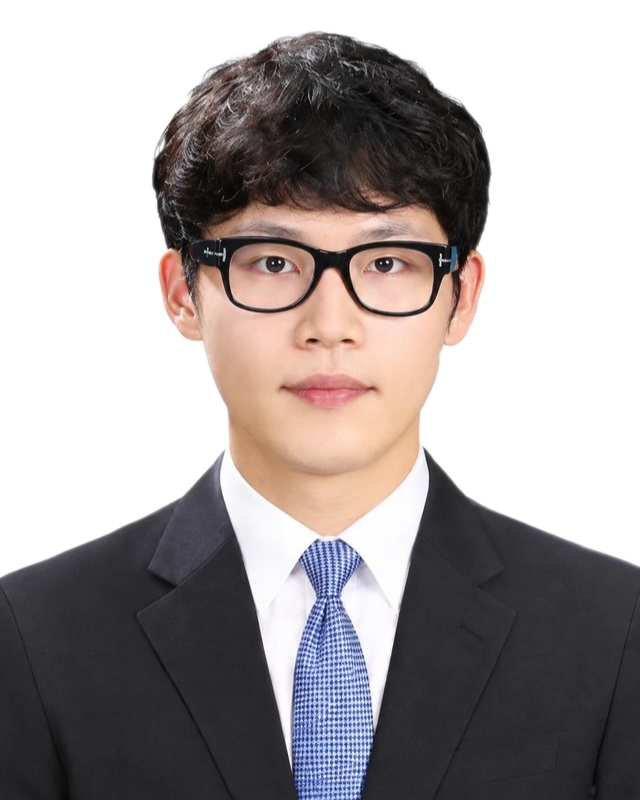
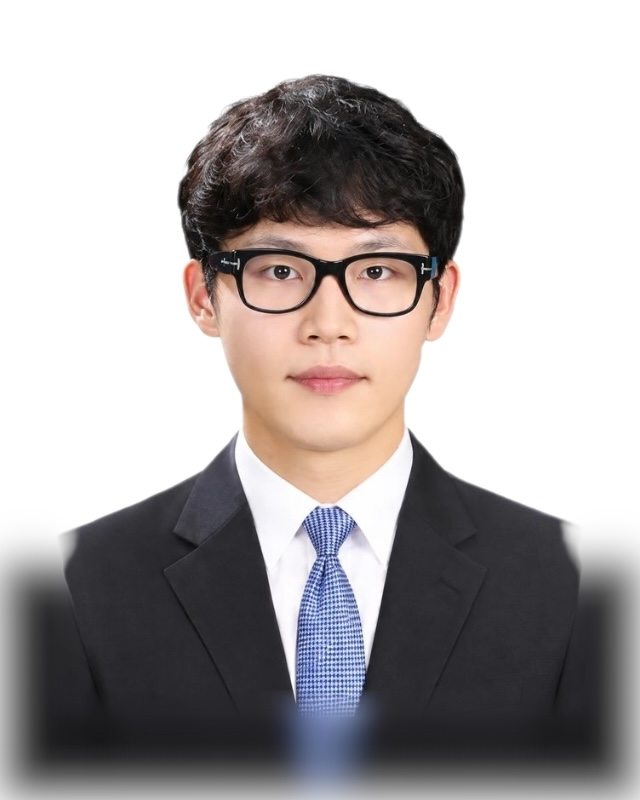
최현재 얼굴 작게, 고연승 사진·약력(블로그), 서현우 약력 수정

Changed region(s): [[0.0, 0.0312, 1.0, 1.0], [0.8438, 0.8438, 0.875, 0.875], [0.125, 0.8438, 0.1562, 0.875]]

diff --git a/index.html b/index.html
@@ -594,13 +594,13 @@ const T=[
  {n:'조일환',s:'수학',c:['서울대학교 수학과 학사 · 석사 수료','UCLA 수학과 석사 · 응용수학 박사 과정','가톨릭대 · 성균관대 의약 논술 강의']},
  {n:'문지현',s:'영어',c:['현) 메가스터디 영어 인강 대표강사','러셀 공채 1위 영어강사','전) 휘문고 · 단대부고 · 세화고 전임','매년 수능 만점자 배출','이투스북 모의고사 출제 · 검토']},
  {n:'박정은',s:'영어',c:['서울대학교 영어영문학과','서초 메가스터디 강의평가 1위','메가스터디 6월 · 9월 수능 모의평가 대표 평가위원','대성 모의고사 평가위원 (Dfine · Darchaive 모의고사 외)']},
- {n:'고연승',s:'영어',c:['연세대학교 영어영문학과','강남대성']},
+ {n:'고연승',s:'영어',t:'영어 · 메디컬 핵심반',c:['연세대학교 영어영문학과 졸업 · 영어교육학과 석사','현) EBSi 수능 라인업 대표 강사','현) 대치 독수리 의대관','전) 전국모의고사 출제위원','전) 중동고 정교사','강남대성 S2 출강 및 담임','2024 수능연계 교재 『수능완성』 집필']},
  {n:'최한근',s:'탐구',t:'생명과학',c:['고려대학교 생물교육과','강남대성']},
  {n:'이정태',s:'탐구',t:'통합사회 · 인문논술',c:['서울대학교 문화인류학과 · 미시간주립대 석사','아폴론 · 이슈앤스카이','전) 중앙일보 기자','『밥상에 차려진 통합논술』']},
  {n:'안재훈',s:'논술',t:'인문 · 약술국어',c:['서울대학교 철학과 · 서울대 행정대학원','하나고 · 포항제철고 출강','저서 다수']},
  {n:'강명필',s:'논술',t:'인문논술',c:['서울대학교 인류학과 · 연세대 MBA','다빈치논술 · 이슈앤투데이']},
  {n:'변기윤',s:'논술',t:'인문 · 약술논술',c:['연세대학교 · 서울대 행정대학원','가천대 겸임교수','이투스 · 로고스']},
- {n:'서현우',s:'논술',t:'인문논술',c:['성균관대학교 법학 학사 · 석사','건국대 전임교수','서울대 · 고려대 · 한양대 특강']},
+ {n:'서현우',s:'논술',t:'인문논술',c:['성균관대학교 법학 학사 · 석사','건국대 대학원 전임강사','한양대 대학원 등 특강강사']},
  {n:'황송주',s:'논술',t:'수리 · 약술수학',c:['서울대학교 수학과','메타 논술 · 자사고 및 지자체 논술 강의','『강남 일번지 엄마들의 수험생 자녀 관리』']},
  {n:'박성하',s:'논술',t:'수리논술',c:['서울대학교 수학교육과','천안북일고 · 미래탐구 · 아폴론 · 종로학원','『해법논술』']},
  {n:'임창훈',s:'논술',t:'의대 수리논술',c:['서울대학교 수학과 · 포항공대 석사','가톨릭대 등 주요 의대 논술 강의']},
@@ -610,7 +610,7 @@ const T=[
 ];
 const list=document.getElementById('tlist');
 /* 사진: img/teachers/이름.jpg 를 PHOTO 에 적으면 사진, 없으면 성 한 글자 */
-const PHOTO={};['류성훈','이태형','장의순','김호랑','권현석','정민','홍진수','최정윤','이예섭','정지만','김현중','이창환','최현재','김경한','문지현','박정은'].forEach(n=>PHOTO[n]='img/teachers/'+n+'.jpg?v=1123d');
+const PHOTO={};['류성훈','이태형','장의순','김호랑','고연승','권현석','정민','홍진수','최정윤','이예섭','정지만','김현중','이창환','최현재','김경한','문지현','박정은'].forEach(n=>PHOTO[n]='img/teachers/'+n+'.jpg?v=1123e');
 /* 줄 순서: 1줄 국어 · 2줄 수학 · 3줄 영어 · 4줄 탐구 · 논술 (11/19 사장님 요청)
    같은 과목 안에서는 (탐구는 통합과학·통합사회·사탐 순으로 묶고) 사진 있는 강사 먼저, 나머지는 배열 순서 그대로 */
 const SUBJ=['국어','수학','영어','탐구','논술'];
